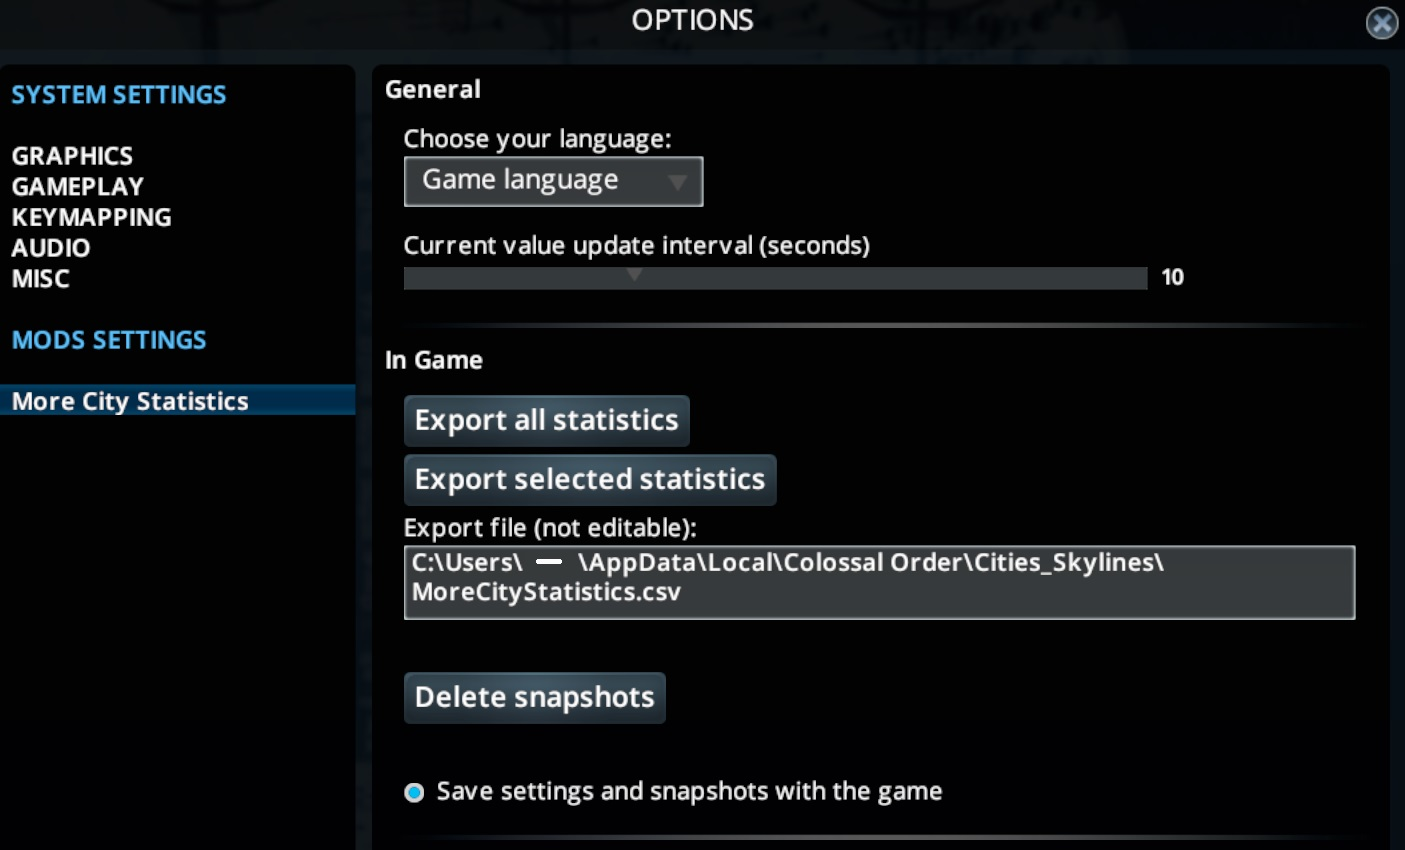
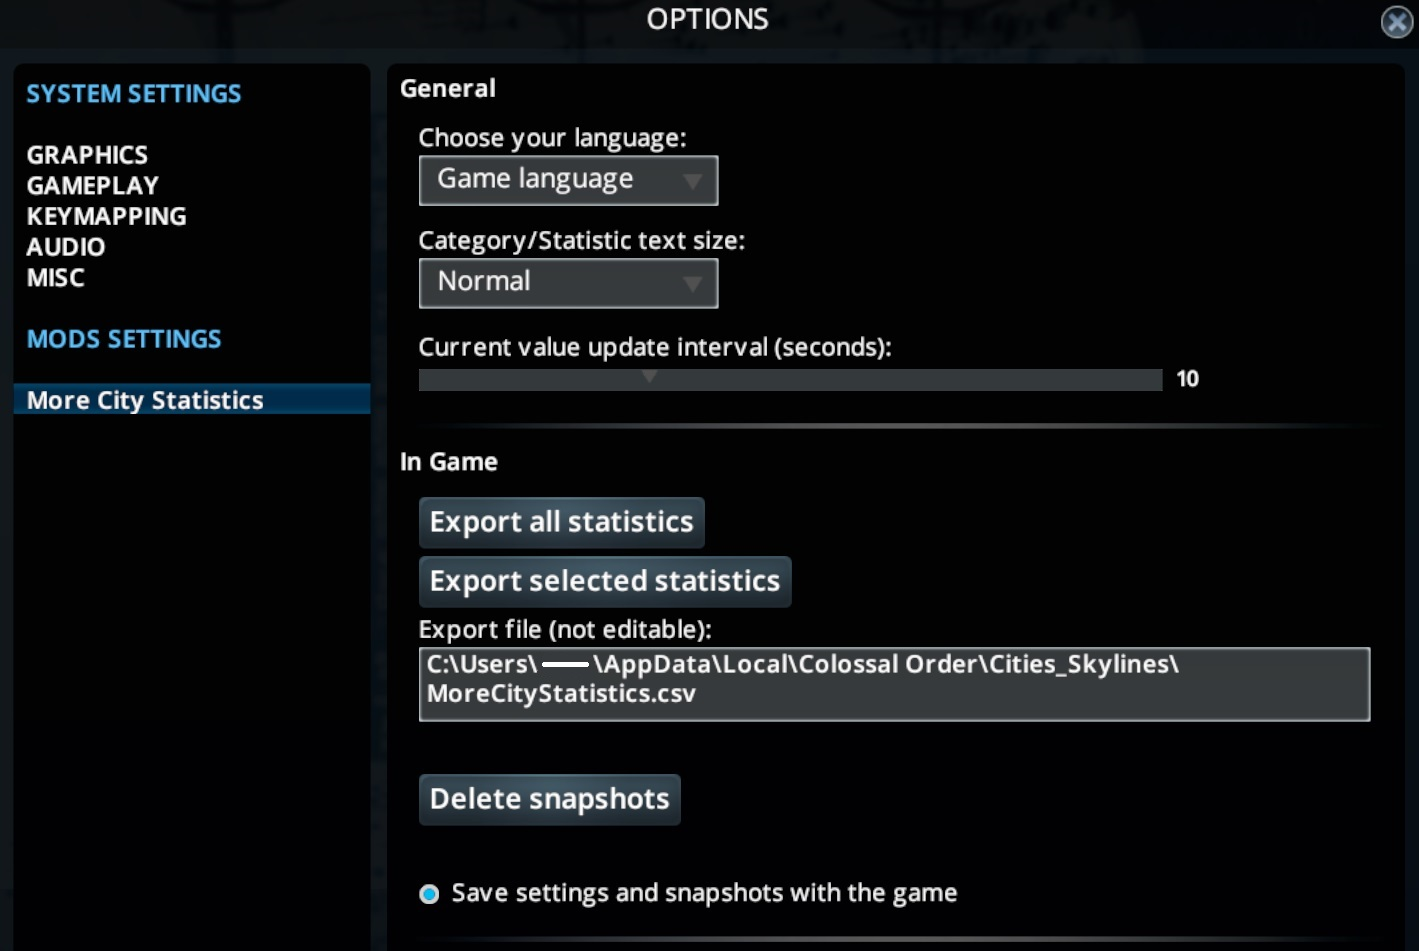
Verson 1.11

diff --git a/Statistic.cs b/Statistic.cs
@@ -300,7 +300,7 @@ namespace MoreCityStatistics
             _panel.eventClicked += Statistic_eventClicked;
 
             // create the checkbox
-            const float componentHeight = UIHeight - 2f;
+            const float checkboxSize = UIHeight - 2f;
             _checkbox = _panel.AddUIComponent<UISprite>();
             if (_checkbox == null)
             {
@@ -309,7 +309,7 @@ namespace MoreCityStatistics
             }
             _checkbox.name = namePrefix + "Checkbox";
             _checkbox.autoSize = false;
-            _checkbox.size = new Vector2(componentHeight, componentHeight);
+            _checkbox.size = new Vector2(checkboxSize, checkboxSize);
             _checkbox.relativePosition = new Vector3(20f, 0f);
 
             // create the description label
@@ -323,7 +323,7 @@ namespace MoreCityStatistics
             _description.textScale = 0.625f;
             _description.relativePosition = new Vector3(_checkbox.relativePosition.x + _checkbox.size.x + 3f, 3f);
             _description.autoSize = false;
-            _description.size = new Vector2(_panel.size.x - _description.relativePosition.x, componentHeight);
+            _description.size = new Vector2(_panel.size.x - _description.relativePosition.x, UIHeight);
 
             // create the amount label on top of the description
             _amount = _panel.AddUIComponent<UILabel>();
@@ -335,7 +335,7 @@ namespace MoreCityStatistics
             _amount.name = namePrefix + "Amount";
             _amount.textScale = _description.textScale;
             _amount.autoSize = false;
-            _amount.size = new Vector2(_description.size.x - 100f, componentHeight);
+            _amount.size = new Vector2(_description.size.x - 100f, UIHeight);
             _amount.relativePosition = new Vector3(_panel.size.x - _amount.size.x - 2f, _description.relativePosition.y);
             _amount.textAlignment = UIHorizontalAlignment.Right;
             _amount.BringToFront();
@@ -674,12 +674,24 @@ namespace MoreCityStatistics
             {
                 _description.text = _descriptionUnits;
                 _description.textColor = _textColor;
+                Configuration config = ConfigurationUtil<Configuration>.Load();
+                switch ((Options.CategoryStatisticTextSize)config.CategoryStatisticTextSize)
+                {
+                    case Options.CategoryStatisticTextSize.Normal:      _description.textScale = 0.625f; _description.relativePosition = new Vector3(_description.relativePosition.x, 3.0f); break;
+                    case Options.CategoryStatisticTextSize.Large:       _description.textScale = 0.750f; _description.relativePosition = new Vector3(_description.relativePosition.x, 2.0f); break;
+                    case Options.CategoryStatisticTextSize.ExtraLarge:  _description.textScale = 0.875f; _description.relativePosition = new Vector3(_description.relativePosition.x, 0.5f); break;
+                }
             }
 
             // update amount
             if (_amount != null)
             {
                 _amount.textColor = _textColor;
+                if (_description != null)
+                {
+                    _amount.textScale = _description.textScale;
+                    _amount.relativePosition = new Vector3(_amount.relativePosition.x, _description.relativePosition.y);
+                }
             }
         }
 

diff --git a/Options.cs b/Options.cs
@@ -19,9 +19,17 @@ namespace MoreCityStatistics
         // special language code for game language
         public const string GameLanguageCode = "00";
 
+        // category and statistic text size
+        public enum CategoryStatisticTextSize
+        {
+            Normal,
+            Large,
+            ExtraLarge
+        }
+        public const CategoryStatisticTextSize DefaultCategoryStatisticTextSize = CategoryStatisticTextSize.Normal;
+
         // interval to update current values (seconds)
         public const int DefaultUpdateInterval = 10;
-        public int CurrentValueUpdateInterval { get; private set; }
         private UILabel _intervalValue;
 
         // status of settings check box
@@ -64,6 +72,11 @@ namespace MoreCityStatistics
 
             // allow user to change language
             groupGeneral.AddDropdown(translation.Get(Translation.Key.ChooseYourLanguage), languageNames, defaultIndex, OnLanguageChanged);
+
+
+            // allow user to choose category/statistic text size
+            string[] textSizes = new string[] { translation.Get(Translation.Key.Normal), translation.Get(Translation.Key.Large), translation.Get(Translation.Key.ExtraLarge) };
+            groupGeneral.AddDropdown(translation.Get(Translation.Key.CategoryStatisticTextSize), textSizes, config.CategoryStatisticTextSize, OnCategoryStatisticTextSizeChanged);
 
 
             // allow user to set the interval that current values are updated
@@ -139,7 +152,7 @@ namespace MoreCityStatistics
 
             // save the selected language code so it is available next time it is needed
             Configuration.SaveLanguageCode(languageCode);
-            LogUtil.LogInfo($"Languaged changed to [{languageCode}]");
+            LogUtil.LogInfo($"Language changed to [{languageCode}]");
 
             // inform the Main Options Panel about locale change
             // this will trigger MoreCityStatistics.OnSettingsUI which calls Options.CreateUI to recreate this mod's Options UI with the newly selected language
@@ -169,18 +182,30 @@ namespace MoreCityStatistics
         }
 
         /// <summary>
+        /// handle change in category/statistic text size
+        /// </summary>
+        private void OnCategoryStatisticTextSizeChanged(int index)
+        {
+            // save the selected text size; index corresponds to enum value
+            Configuration.SaveCurrentValueCategoryStatisticTextSize((CategoryStatisticTextSize)index);
+
+            // update UI for the rest of this mod's UI
+            UserInterface.instance.UpdateUI();
+        }
+
+        /// <summary>
         /// handle change in update interval
         /// </summary>
         private void OnUpdateIntervalChanged(float val)
         {
             // save the new value
-            CurrentValueUpdateInterval = (int)val;
-            Configuration.SaveCurrentValueUpdateInterval(CurrentValueUpdateInterval);
+            int updateInterval = (int)val;
+            Configuration.SaveCurrentValueUpdateInterval(updateInterval);
 
             // show new interval value
             if (_intervalValue != null)
             {
-                _intervalValue.text = CurrentValueUpdateInterval.ToString();
+                _intervalValue.text = updateInterval.ToString();
             }
         }
 

diff --git a/Category.cs b/Category.cs
@@ -165,7 +165,7 @@ namespace MoreCityStatistics
             expansionPanel.eventClicked += Category_eventClicked;
 
             // create the expansion icon
-            const float componentHeight = UIHeight - 2f;
+            const float iconSize = UIHeight - 2f;
             _expansionIcon = expansionPanel.AddUIComponent<UISprite>();
             if (_expansionIcon == null)
             {
@@ -174,7 +174,7 @@ namespace MoreCityStatistics
             }
             _expansionIcon.name = namePrefix + "ExpansionIcon";
             _expansionIcon.autoSize = false;
-            _expansionIcon.size = new Vector2(componentHeight, componentHeight);
+            _expansionIcon.size = new Vector2(iconSize, iconSize);
             _expansionIcon.relativePosition = new Vector3(0f, 0f);
 
             // create the label
@@ -187,7 +187,7 @@ namespace MoreCityStatistics
             _label.name = namePrefix + "Label";
             _label.relativePosition = new Vector3(_expansionIcon.relativePosition.x + _expansionIcon.size.x + 3f, 3.5f);
             _label.autoSize = false;
-            _label.size = new Vector2(_panel.size.x - _label.relativePosition.x, componentHeight);
+            _label.size = new Vector2(_panel.size.x - _label.relativePosition.x, UIHeight);
             _label.textScale = 0.75f;
             _label.textColor = new Color32(185, 221, 254, 255);;
 
@@ -247,6 +247,13 @@ namespace MoreCityStatistics
             if (_label != null)
             {
                 _label.text = _description;
+                Configuration config = ConfigurationUtil<Configuration>.Load();
+                switch ((Options.CategoryStatisticTextSize)config.CategoryStatisticTextSize)
+                {
+                    case Options.CategoryStatisticTextSize.Normal:      _label.textScale = 0.750f; _label.relativePosition = new Vector3(_label.relativePosition.x, 3.5f); break;
+                    case Options.CategoryStatisticTextSize.Large:       _label.textScale = 0.875f; _label.relativePosition = new Vector3(_label.relativePosition.x, 2.0f); break;
+                    case Options.CategoryStatisticTextSize.ExtraLarge:  _label.textScale = 1.000f; _label.relativePosition = new Vector3(_label.relativePosition.x, 0.0f); break;
+                }
             }
 
             // update the statistics

diff --git a/MainPanel.cs b/MainPanel.cs
@@ -51,10 +51,10 @@ namespace MoreCityStatistics
                 canFocus = true;
                 autoSize = false;
 
-                // the width is the maximum that still fits on the screen using the game's narrower 4:3 aspect ratio
+                // the width is the maximum that still fits on the screen using the game's narrow 4:3 aspect ratio
                 // the height is just enough so that the vertical scroll bar is not needed when all categories are collapsed
-                // the user's screen resolution setting and the game's graphics display settings resolution do not matter
-                size = new Vector2(1430f, 920f);
+                // the user's screen resolution and the game's graphics resolution do not matter
+                size = new Vector2(1440f, 940f);
 
                 // if panel positon is negative (i.e. default), then center panel on the view
                 if (relativePosition.x < 0f)
@@ -69,6 +69,7 @@ namespace MoreCityStatistics
                 Color32 panelColor = new Color32(45, 52, 61, 255);
 
                 // create graph panel
+                // the width of the graph panel is set so that the statistic descriptions and amounts don't overlap in English at Normal text size
                 UIPanel graphPanel = AddUIComponent<UIPanel>();
                 if (graphPanel == null)
                 {
@@ -77,7 +78,7 @@ namespace MoreCityStatistics
                 }
                 graphPanel.name = "GraphPanel";
                 graphPanel.autoSize = false;
-                graphPanel.size = new Vector3(1000f, size.y - 60f);
+                graphPanel.size = new Vector3(980f, size.y - 60f);
                 graphPanel.relativePosition = new Vector3(10f, 50f);
                 graphPanel.backgroundSprite = "GenericPanel";
                 graphPanel.color = panelColor;

diff --git a/Configuration.cs b/Configuration.cs
@@ -22,6 +22,9 @@ namespace MoreCityStatistics
         // language code
         public string LanguageCode = Options.GameLanguageCode;
 
+        // category/statistic text size
+        public int CategoryStatisticTextSize = (int)Options.DefaultCategoryStatisticTextSize;
+
         // current value update interval
         public int CurrentValueUpdateInterval = Options.DefaultUpdateInterval;
 
@@ -54,6 +57,16 @@ namespace MoreCityStatistics
         {
             Configuration config = ConfigurationUtil<Configuration>.Load();
             config.LanguageCode = languageCode;
+            ConfigurationUtil<Configuration>.Save();
+        }
+
+        /// <summary>
+        /// save the current value category/statistic text size to the global config file as an int
+        /// </summary>
+        public static void SaveCurrentValueCategoryStatisticTextSize(Options.CategoryStatisticTextSize textSize)
+        {
+            Configuration config = ConfigurationUtil<Configuration>.Load();
+            config.CategoryStatisticTextSize = (int)textSize;
             ConfigurationUtil<Configuration>.Save();
         }
 

diff --git a/Properties/AssemblyInfo.cs b/Properties/AssemblyInfo.cs
@@ -21,7 +21,7 @@ using System.Runtime.InteropServices;
 // The AssemblyVersion has the format "{Major}.{Minor}.{Build}.{Revision}".
 // The form "{Major}.{Minor}.*" will automatically update the build and revision.
 // The form "{Major}.{Minor}.{Build}.*" will update just the revision.
-[assembly: AssemblyVersion("1.10.*")]
+[assembly: AssemblyVersion("1.11.*")]
 
 // The AssemblyFileVersion is commented out which causes the AssemblyFileVersion to be the same as the AssemblyVersion, as desired.
 //[assembly: AssemblyFileVersion("1.0.0.0")]

diff --git a/Translation.cs b/Translation.cs
@@ -62,6 +62,10 @@ namespace MoreCityStatistics
             ChooseYourLanguage,
             GameLanguage,
             LanguageName,
+            CategoryStatisticTextSize,
+            Normal,
+            Large,
+            ExtraLarge,
             CurrentValueUpdateInterval,
 
             // in-game options UI
